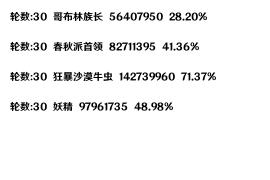
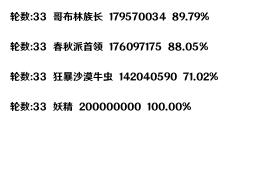
修复25轮以上有满血BOSS时，进度功能异常的BUG

diff --git a/payload2/data_format.py b/payload2/data_format.py
@@ -2,7 +2,7 @@
 Author: 七画一只妖 1157529280@qq.com
 Date: 2023-10-07 10:22:42
 LastEditors: 七画一只妖 1157529280@qq.com
-LastEditTime: 2023-10-08 11:00:22
+LastEditTime: 2023-11-07 19:24:35
 Description: 这是默认设置,请设置`customMade`, 打开koroFileHeader查看配置 进行设置: https://github.com/OBKoro1/koro1FileHeader/wiki/%E9%85%8D%E7%BD%AE
 '''
 import asyncio
@@ -121,7 +121,10 @@ async def get_rate(user_id:str):
                 ra = 100
             # 精确到2位小数
             ra = "%.2f" % ra
-            text += f"轮数:{round}  {item['boss_name']}  {boss_damage[item['boss_name']]}  {ra}%   \n\n"
+            try:
+                text += f"轮数:{round}  {item['boss_name']}  {boss_damage[item['boss_name']]}  {ra}%   \n\n"
+            except:
+                text += f"轮数:{round}  {item['boss_name']}  {max_hp}  {ra}%   \n\n"
         return get_rate_image(text, user_id)
     else:
         # 轮数小于25的直接调用接口

diff --git a/main.py b/main.py
@@ -17,12 +17,12 @@ loop = asyncio.get_event_loop()
 # 填写完cookies之后就能在这操作了，想要运行下面功能就把哪行解开运行即可
 
 # 日报
-print(loop.run_until_complete(data_format.today_report("114514")))
+# print(loop.run_until_complete(data_format.today_report("114514")))
 
 # 总伤
 # print(loop.run_until_complete(data_format.all_report("114514")))
 
 # 进度
-# print(loop.run_until_complete(data_format.get_rate("114514")))
+print(loop.run_until_complete(data_format.get_rate("114514")))
 
 # print(loop.run_until_complete(dao.get_data("2023-10-06")))
